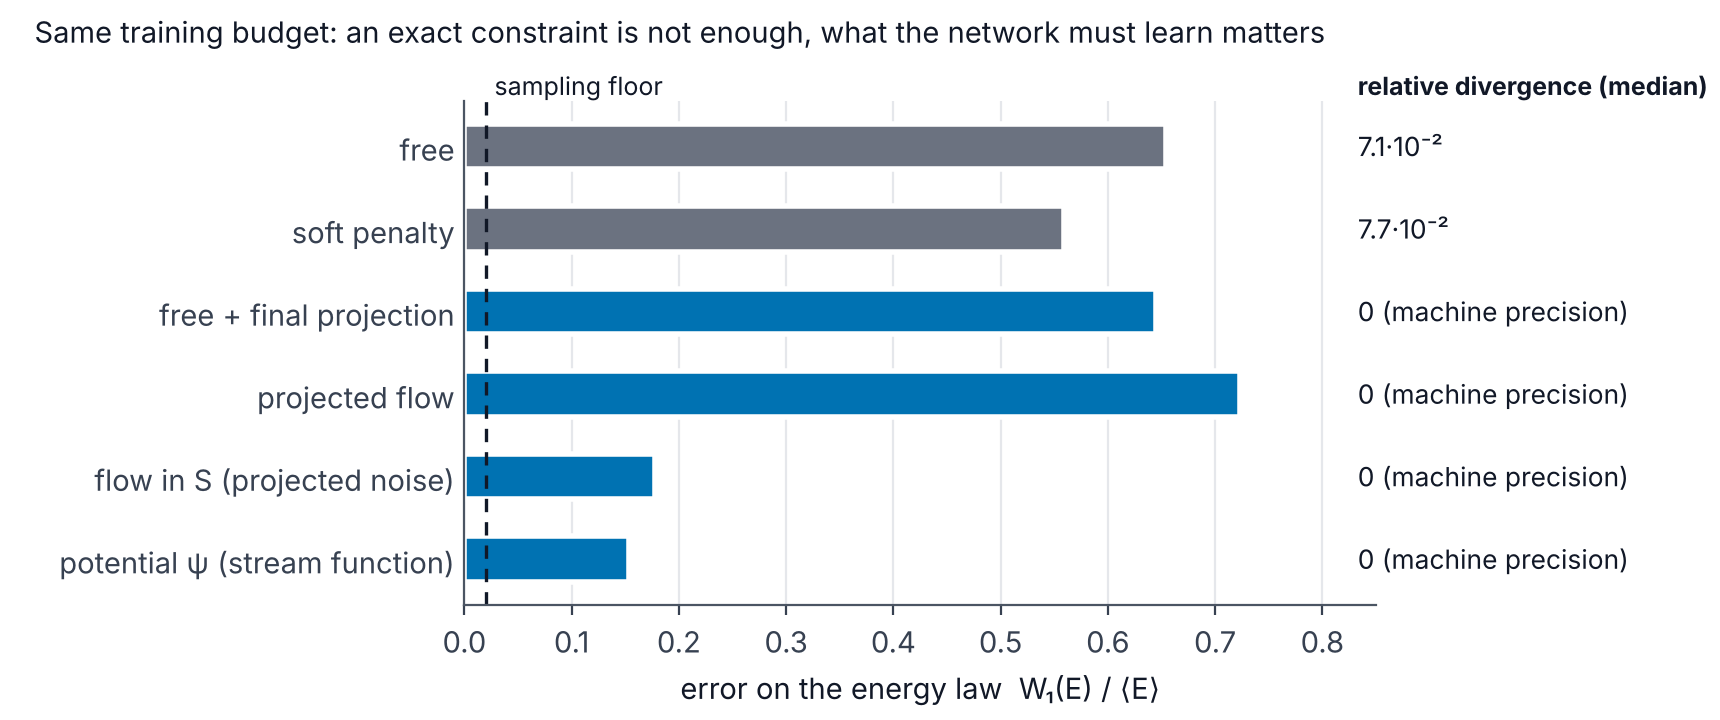
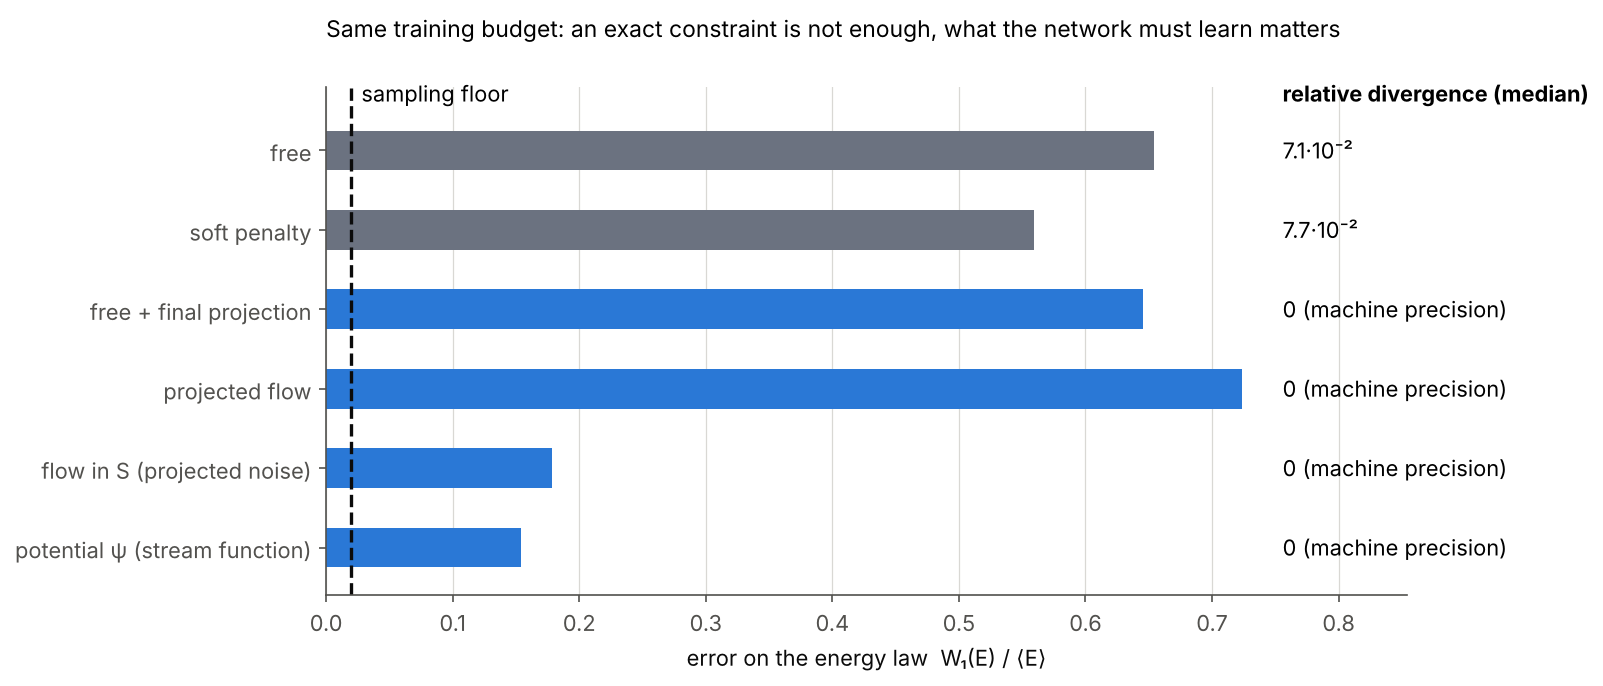
P8: figure script figures_p8.py, figures regenerated
Both figures rerun the code blocks of the page; the six W1(E)/E values,
the 0.020 floor and the tilting ESS reproduce the printed outputs.

Claude-Session: https://claude.ai/code/session_019DLE2UupA8nNvHWE1xMPtD

diff --git a/site/prep/p8-physical-constraints/figures_p8.py b/site/prep/p8-physical-constraints/figures_p8.py
@@ -1,0 +1,181 @@
+"""Static figures of module p8 (physical constraints in generative models).
+
+Usage: python3 figures_p8.py [out_dir]     (default: the folder of this script)
+Both figures rerun the code block of the page that precedes them (section 3.5: six ways of obtaining
+a divergence-free field, seed 0; section 6: tilting of the double-well law, seed 0) and print the
+numbers quoted in the captions. Runs on one CPU thread in about one minute.
+"""
+import sys
+from pathlib import Path
+
+import numpy as np
+import torch
+from scipy.optimize import minimize
+from scipy.stats import gaussian_kde, wasserstein_distance
+
+sys.path.insert(0, str(Path(__file__).resolve().parents[2] / "assets"))
+import figstyle as fs  # noqa: E402
+import matplotlib.pyplot as plt  # noqa: E402
+
+fs.use(10.5)
+HERE = Path(__file__).resolve().parent
+
+
+# ---------------------------------------------------------------------------------------------
+def divergence_experiment():
+    """Code block of section 3.5, unchanged except for the names; returns {variant: (div_rel, W1/E)} and the floor."""
+    torch.set_num_threads(1); torch.manual_seed(0); rng = np.random.default_rng(0)
+    ks = np.array([(i, j) for i in range(-2, 3) for j in range(-2, 3) if i > 0 or (i == 0 and j > 0)], float)
+    nk, kn = len(ks), np.linalg.norm(ks, axis=1)
+    e = np.stack([ks[:, 1], -ks[:, 0]], 1) / kn[:, None]
+    D = 4 * nk
+    P = np.zeros((D, D)); C = np.zeros((D, 2 * nk))
+    for cs in range(2):
+        for i in range(nk):
+            j = 2 * (cs * nk + i)
+            P[j:j + 2, j:j + 2] = np.outer(e[i], e[i])
+            C[j:j + 2, (1 - cs) * nk + i] = (1 if cs == 0 else -1) * kn[i] * e[i]
+    K4 = np.concatenate([ks, ks])
+
+    def div_rel(x):
+        c = x.reshape(len(x), 2 * nk, 2)
+        return np.sqrt(((c * K4).sum(-1) ** 2).sum(1) / ((c ** 2).sum(-1) * (K4 ** 2).sum(-1)).sum(1))
+
+    def data(N):
+        r = rng.uniform(0.5, 1.5, (N, 1))
+        psi = r * np.tile(kn, 2) ** -2.0 * rng.normal(size=(N, 2 * nk))
+        return psi @ C.T, psi
+
+    def train(X, penalty=0.0, noise_in_S=False, steps=1000):
+        X = torch.tensor(X, dtype=torch.float32); d = X.shape[1]
+        Pt = torch.tensor(P, dtype=torch.float32); Q = torch.eye(D) - Pt
+        net = torch.nn.Sequential(torch.nn.Linear(d + 1, 128), torch.nn.SiLU(), torch.nn.Linear(128, 128),
+                                  torch.nn.SiLU(), torch.nn.Linear(128, d))
+        opt = torch.optim.Adam(net.parameters(), lr=1e-3)
+        for _ in range(steps):
+            x1 = X[torch.randint(len(X), (256,))]; x0 = torch.randn_like(x1); t = torch.rand(256, 1)
+            if noise_in_S:
+                x0 = x0 @ Pt.T
+            xt = (1 - t) * x0 + t * x1
+            v = net(torch.cat([xt, t], 1))
+            loss = ((v - (x1 - x0)) ** 2).sum(1).mean()
+            if penalty:
+                loss = loss + penalty * (((xt + (1 - t) * v) @ Q.T) ** 2).sum(1).mean()
+            opt.zero_grad(); loss.backward(); opt.step()
+        return net
+
+    @torch.no_grad()
+    def generate(net, x0, proj=None, n=50):
+        x = torch.tensor(x0, dtype=torch.float32)
+        Pt = None if proj is None else torch.tensor(proj, dtype=torch.float32)
+        if Pt is not None:
+            x = x @ Pt.T
+        for i in range(n):
+            x = x + net(torch.cat([x, torch.full((len(x), 1), i / n)], 1)) / n
+            if Pt is not None:
+                x = x @ Pt.T
+        return x.double().numpy()
+
+    U, Psi = data(4000); Uref, _ = data(2000)
+    su = np.repeat(np.sqrt((U.reshape(-1, 2 * nk, 2) ** 2).sum(2).mean(0)), 2); sp = Psi.std(0)
+    E = lambda x: 0.25 * (x ** 2).sum(1)  # noqa: E731
+    floor = wasserstein_distance(E(data(2000)[0]), E(Uref)) / E(Uref).mean()
+    z = rng.normal(size=(2000, D))
+    net_u, net_pen = train(U / su), train(U / su, penalty=1.0)
+    net_S, net_psi = train(U / su, noise_in_S=True), train(Psi / sp)
+    res = {"free": generate(net_u, z) * su}
+    res["final projection"] = res["free"] @ P.T
+    res["projected flow"] = generate(net_u, z, proj=P) * su
+    res["soft penalty"] = generate(net_pen, z) * su
+    res["flow in S"] = generate(net_S, z, proj=P) * su
+    res["potential psi"] = (generate(net_psi, z[:, :2 * nk]) * sp) @ C.T
+    out = {}
+    for name, x in res.items():
+        out[name] = (float(np.median(div_rel(x))), wasserstein_distance(E(x), E(Uref)) / E(Uref).mean())
+        print(f"divergence: {name:17s} median div_rel = {out[name][0]:.1e}, W1(E)/E = {out[name][1]:.3f}")
+    print(f"divergence: floor W1(E)/E = {floor:.3f}")
+    return out, floor
+
+
+def fig_divergence_mechanisms(out):
+    res, floor = divergence_experiment()
+    rows = [("free", "free"), ("soft penalty", "soft penalty"), ("final projection", "free + final projection"),
+            ("projected flow", "projected flow"), ("flow in S", "flow in S (projected noise)"),
+            ("potential psi", "potential ψ (stream function)")]
+    fig, ax = plt.subplots(figsize=(11, 4.4))
+    y = np.arange(len(rows))[::-1]
+    for yi, (key, label) in zip(y, rows):
+        div, w1 = res[key]
+        exact = div < 1e-6
+        ax.barh(yi, w1, height=0.5, color=fs.C1 if exact else "#6b7280")
+        mant, ex = f"{div:.1e}".split("e")
+        sup = str(int(ex)).translate(str.maketrans("-0123456789", "⁻⁰¹²³⁴⁵⁶⁷⁸⁹"))
+        txt = "0 (machine precision)" if exact else f"{mant}·10{sup}"
+        ax.text(0.885, yi, txt, va="center", transform=ax.get_yaxis_transform())
+    ax.axvline(floor, color=fs.INK, ls="--", lw=1.6)
+    ax.text(floor + 0.008, len(rows) - 0.45, "sampling floor", va="bottom")
+    ax.text(0.885, len(rows) - 0.45, "relative divergence (median)", va="bottom", fontweight="bold",
+            transform=ax.get_yaxis_transform())
+    ax.set_yticks(y, [label for _, label in rows]); ax.set_ylim(-0.6, len(rows) - 0.2)
+    ax.set_xlim(0, max(r[1] for r in res.values()) * 1.18); ax.grid(axis="y", visible=False)
+    ax.set_xlabel("error on the energy law  W₁(E) / ⟨E⟩")
+    ax.set_title("Same training budget: an exact constraint is not enough, what the network must learn matters",
+                 loc="left", fontsize=11, pad=24)
+    ax.set_axisbelow(True)
+    fig.subplots_adjust(right=0.78)
+    fs.save(fig, out / "fig-divergence-mechanisms.png")
+
+
+# ---------------------------------------------------------------------------------------------
+def fig_tilting(out):
+    """Code block of section 6 (double well, sigma = 0.7, model too hot sigma = 0.85), seed 0."""
+    rng = np.random.default_rng(0)
+    sigma = 0.7
+    grid = np.linspace(-3, 3, 6001)
+
+    def law(sig):
+        p = np.exp(-2 * (grid ** 4 / 4 - grid ** 2 / 2) / sig ** 2); return p / np.trapezoid(p, grid)
+
+    def draw(p, N):
+        F = np.cumsum(p); F /= F[-1]; return np.interp(rng.uniform(size=N), F, grid)
+
+    F = lambda x: x - x ** 3  # noqa: E731
+    g1 = lambda x: x * F(x) + sigma ** 2 / 2  # noqa: E731
+    g2 = lambda x: x ** 3 * F(x) + 1.5 * sigma ** 2 * x ** 2  # noqa: E731
+
+    def tilt(x, G):
+        dual = lambda b: np.log(np.mean(np.exp(G @ b - (G @ b).max()))) + (G @ b).max()  # noqa: E731
+        b = minimize(dual, np.zeros(G.shape[1]), method="BFGS").x
+        w = np.exp(G @ b - (G @ b).max()); return w / w.sum()
+
+    N = 20000
+    draw(law(sigma), N)                                     # the page draws the reference first (same RNG stream)
+    xq = draw(law(0.85), N)
+    r = np.sqrt((1 + np.sqrt(1 + 2 * sigma ** 2)) / 2)
+    w1 = tilt(xq, g1(xq)[:, None])
+    w2 = tilt(xq, np.stack([g1(xq), g2(xq)], 1))
+    mu = law(sigma)
+    print(f"tilting: true law peak {mu.max():.2f}, value at 0 {mu[3000]:.2f}; per-sample projection at ±{r:.2f}; "
+          f"ESS/N = {1 / np.sum(w1 ** 2) / N:.2f}, {1 / np.sum(w2 ** 2) / N:.2f}")
+    xs = np.linspace(-2.4, 2.4, 600)
+    kde = lambda w: gaussian_kde(xq, bw_method=0.08, weights=w)(xs)  # noqa: E731
+    fig, ax = plt.subplots(figsize=(11, 4.6))
+    ax.plot(grid, mu, color=fs.INK, lw=2.4, label="true law μ")
+    ax.plot(xs, kde(None), "--", color="#6b7280", lw=2, label="model q (biased)")
+    ax.plot(xs, kde(w1), ":", color=fs.C2, lw=2.2, label="q tilted, 1 identity (φ = x²/2)")
+    ax.plot(xs, kde(w2), color=fs.C2, lw=2.6, label="q tilted, 2 identities (φ = x²/2, x⁴/4)")
+    for s in (-r, r):
+        ax.annotate("", xy=(s, 0.62), xytext=(s, 0.0), arrowprops=dict(arrowstyle="-|>", color=fs.C1, lw=2.6))
+    ax.plot([], [], color=fs.C1, lw=2.6, label="per-sample correction: 2 Diracs (mass ½ each)")
+    ax.set_xlim(-2.4, 2.4); ax.set_ylim(0, 0.68); ax.grid(axis="x", visible=False)
+    ax.set_xlabel("state x"); ax.set_ylabel("density")
+    ax.legend(loc="upper center", bbox_to_anchor=(0.5, -0.17), ncol=2, fontsize=9.5)
+    ax.set_title("Enforcing a stationarity identity: reweight the law, do not move each sample", loc="left", fontsize=11)
+    fig.tight_layout()
+    fs.save(fig, out / "fig-tilting.png")
+
+
+if __name__ == "__main__":
+    out = fs.out_dir(__file__, sys.argv)
+    for fn in (fig_divergence_mechanisms, fig_tilting):
+        fn(out)
